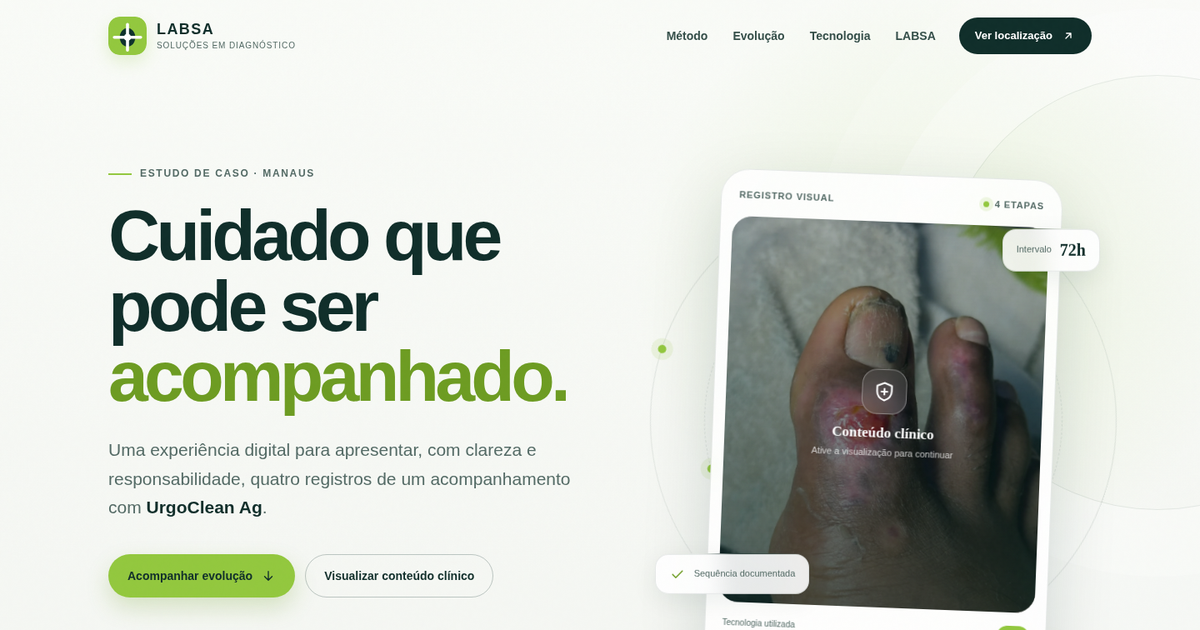
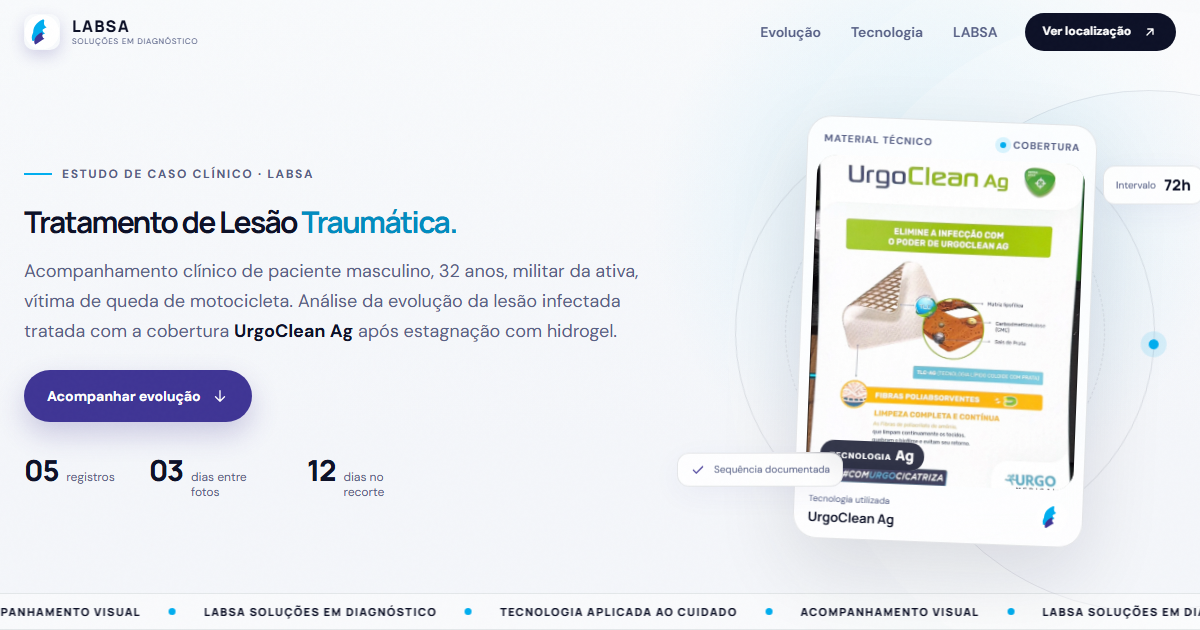
fix: substitui imagem social OG preview-card pelo design atual (Azul/Roxo/Tratamento de Lesão Traumática) e invalida cache ?v=3

diff --git a/LABSA-estudo-de-caso-standalone.html b/LABSA-estudo-de-caso-standalone.html
@@ -9,8 +9,8 @@
   <meta property="og:url" content="https://labsa-estudo-de-caso.vercel.app/">
   <meta property="og:title" content="LABSA · Estudo de Caso Clínico (UrgoClean Ag)">
   <meta property="og:description" content="Acompanhamento visual da evolução de lesão traumática em 12 dias. Experiência digital desenvolvida por Irlan Souza na Vibranium Digital.">
-  <meta property="og:image" content="https://labsa-estudo-de-caso.vercel.app/assets/brand/preview-card.jpg?v=2">
-  <meta property="og:image:secure_url" content="https://labsa-estudo-de-caso.vercel.app/assets/brand/preview-card.jpg?v=2">
+  <meta property="og:image" content="https://labsa-estudo-de-caso.vercel.app/assets/brand/preview-card.jpg?v=3">
+  <meta property="og:image:secure_url" content="https://labsa-estudo-de-caso.vercel.app/assets/brand/preview-card.jpg?v=3">
   <meta property="og:image:type" content="image/jpeg">
   <meta property="og:image:width" content="1200">
   <meta property="og:image:height" content="630">
@@ -19,7 +19,7 @@
   <meta name="twitter:url" content="https://labsa-estudo-de-caso.vercel.app/">
   <meta name="twitter:title" content="LABSA · Estudo de Caso Clínico (UrgoClean Ag)">
   <meta name="twitter:description" content="Acompanhamento visual da evolução de lesão traumática em 12 dias. Desenvolvido por Irlan Souza na Vibranium Digital.">
-  <meta name="twitter:image" content="https://labsa-estudo-de-caso.vercel.app/assets/brand/preview-card.jpg?v=2">
+  <meta name="twitter:image" content="https://labsa-estudo-de-caso.vercel.app/assets/brand/preview-card.jpg?v=3">
   <title>LABSA · Estudo de Caso Clínico</title>
 
   <link rel="preconnect" href="https://fonts.googleapis.com">

diff --git a/index.html b/index.html
@@ -9,8 +9,8 @@
   <meta property="og:url" content="https://labsa-estudo-de-caso.vercel.app/">
   <meta property="og:title" content="LABSA · Estudo de Caso Clínico (UrgoClean Ag)">
   <meta property="og:description" content="Acompanhamento visual da evolução de lesão traumática em 12 dias. Experiência digital desenvolvida por Irlan Souza na Vibranium Digital.">
-  <meta property="og:image" content="https://labsa-estudo-de-caso.vercel.app/assets/brand/preview-card.jpg?v=2">
-  <meta property="og:image:secure_url" content="https://labsa-estudo-de-caso.vercel.app/assets/brand/preview-card.jpg?v=2">
+  <meta property="og:image" content="https://labsa-estudo-de-caso.vercel.app/assets/brand/preview-card.jpg?v=3">
+  <meta property="og:image:secure_url" content="https://labsa-estudo-de-caso.vercel.app/assets/brand/preview-card.jpg?v=3">
   <meta property="og:image:type" content="image/jpeg">
   <meta property="og:image:width" content="1200">
   <meta property="og:image:height" content="630">
@@ -19,7 +19,7 @@
   <meta name="twitter:url" content="https://labsa-estudo-de-caso.vercel.app/">
   <meta name="twitter:title" content="LABSA · Estudo de Caso Clínico (UrgoClean Ag)">
   <meta name="twitter:description" content="Acompanhamento visual da evolução de lesão traumática em 12 dias. Desenvolvido por Irlan Souza na Vibranium Digital.">
-  <meta name="twitter:image" content="https://labsa-estudo-de-caso.vercel.app/assets/brand/preview-card.jpg?v=2">
+  <meta name="twitter:image" content="https://labsa-estudo-de-caso.vercel.app/assets/brand/preview-card.jpg?v=3">
   <title>LABSA · Estudo de Caso Clínico</title>
 
   <link rel="preconnect" href="https://fonts.googleapis.com">